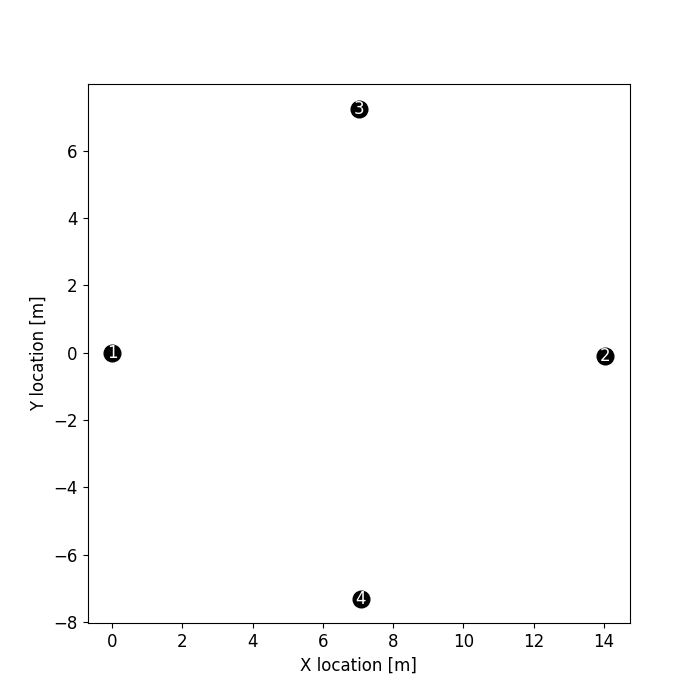
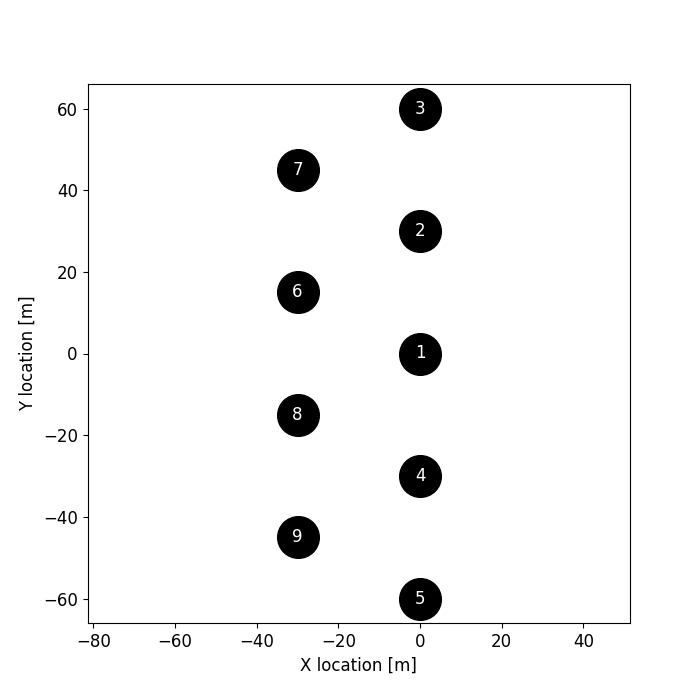
updated soo stuff

diff --git a/src/optimization_interfaces/single_objective_opt.py b/src/optimization_interfaces/single_objective_opt.py
@@ -21,9 +21,8 @@ from pymoo.core.problem import StarmapParallelization
 ####################################################################
 
 class LCOE_sooProblem(ElementwiseProblem):       #   Sinlge Objective Problem
-    def __init__(self,p,limits,**kwargs):            #   P is parameters, limits is the bounds on each var type
-        nwec = int(p[3])
-        n_var=3*(nwec-1) + 3
+    def __init__(self,p,limits,nWEC,**kwargs):            #   P is parameters, limits is the bounds on each var type
+        n_var=3*(nWEC-1) + 3
         xl = np.zeros(n_var)                #   bounds
         xu = np.zeros(n_var)
         xl[0] = limits['r'][0]
@@ -32,7 +31,7 @@ class LCOE_sooProblem(ElementwiseProblem):       #   Sinlge Objective Problem
         xu[1] = limits['L'][1]
         xl[2] = limits['d'][0]
         xu[2] = limits['d'][1]
-        for i in range(nwec-1):
+        for i in range(nWEC-1):
             xl[3+i*3] = limits['x'][0]
             xu[3+i*3] = limits['x'][1]
             xl[4+i*3] = limits['y'][0]
@@ -54,13 +53,12 @@ class LCOE_sooProblem(ElementwiseProblem):       #   Sinlge Objective Problem
         out["F"] = [f1]
         out["G"] = [g1]
 
-def LCOE_GA(p,limits,p_size,gens,n_offspring):  
+def LCOE_GA(p,limits,nWEC,p_size,gens,n_offspring):  
      #   GA method search algorithm
-    problem = P_sooProblem(p,limits)
-    n_proccess = 20
+    n_proccess = 4
     pool = multiprocessing.Pool(n_proccess)
     runner = StarmapParallelization(pool.starmap)
-    problem = LCOE_sooProblem(p,limits,elementwise_runner=runner)
+    problem = LCOE_sooProblem(p,limits,nWEC,elementwise_runner=runner)
     algorithm = NSGA2(
         pop_size=p_size,
         n_offsprings=n_offspring,
@@ -80,13 +78,11 @@ def LCOE_GA(p,limits,p_size,gens,n_offspring):
                algorithm,
                termination,
                seed=1,
-               save_history=True,
                verbose=True)
-
+    
     X = res.X
     F = res.F
-    H = res.history
-    return X,F,H
+    return X,F
 
 class AEP_sooProblem(ElementwiseProblem):       #   Sinlge Objective Problem
     def __init__(self,p,limits):            #   P is parameters, limits is the bounds on each var type

diff --git a/src/main_soo_opt.py b/src/main_soo_opt.py
@@ -2,30 +2,35 @@ import optimization_interfaces.single_objective_opt as opt
 import numpy as np
 import csv 
 import time
+nWEC = 4
+# Limits on Design variables
+limits = {'r':[2,10], 'L':[0.1,0.2], 'x':[-500,500], 'y':[-500,500], 'd':[0,7]}
 
 # Define Parameters
 N = 4
 omega = 1.047
 beta = 0
 A = 1
-p_shape = [1,2,3]
+i = 0.07                # interest rate
+n_avail = 0.95          # availability coefficient (from global avg estimates) **conservative**
+life_time = 25          # lifetime of WEC
+array_scaling_factor = 0.65     # account for fact that OPEX does not scale linearly (very simplified)
+p_shape = [1,2,3] #{1:grid, 2:line,3:random}
+
+# Opt paramaters
+p_size = 250
+gens = 40 #periods
+n_offspring = 50
+
 for _ in p_shape:
-	p = np.array([omega,A,beta,N,0,_]) #{1:grid, 2:line,3:random}
-	# p = [Wave Frequency, Wave Amplitude, wave direction, number of WECs, display time stamps?]
+	p = np.array([omega,A,beta,i,n_avail,life_time,array_scaling_factor,0,_])
 
-	# Limits on Design variables
-	limits = {'r':[2,10], 'L':[0.1,0.5], 'x':[-2500,2500], 'y':[-2500,2500], 'd':[0,7]}
-
-	# Opt paramaters
-	p_size = 500
-	gens = 40 #periods
-	n_offspring = 100
 	start_time = time.time()
-	X,F,H = opt.LCOE_GA(p,limits,p_size,gens,n_offspring)
+	X,F= opt.LCOE_GA(p,limits,nWEC,p_size,gens,n_offspring)
 	end_time = time.time()
 	print(f'Optimization took {end_time-start_time} s')
 
 	# save design
-	with open(f'experiments_interaction_{int(p[5])}/XF_{omega}_{A}_{beta}_{N}__{p_size}_{gens}_{n_offspring}.csv', 'w', newline='') as csvfile:
+	with open(f'../data/experiments/interaction_{_}', 'w', newline='') as csvfile:
 		writer = csv.writer(csvfile, delimiter=',')
 		writer.writerow([X,F])

diff --git a/src/post_pro/plot_design.py b/src/post_pro/plot_design.py
@@ -9,7 +9,11 @@ import modules.model_nWECs as model
 import numpy as np
 import pyplotutilities.colors as colors
 # Design to plot
-x =np.array([2.0001,0.10397832340819038,5.116361100746302,14.037805604014116,-0.09705234903568005,4.968466082392987,7.021016122797809,7.2600758951825295,4.967302814506727,7.07106781,-7.303507084576809,5.301374065918128])
+x =np.array([  5.,          0.8,         5.5563025,   0.,         30.,          5.5563025,
+   0.,         60.,          5.5563025,   0.,        -30.,          5.5563025,
+   0.,        -60.,          5.5563025, -30.,         15.,          5.5563025,
+ -30.,         45.,          5.5563025, -30.,        -15.,          5.5563025,
+ -30.,        -45.,          5.5563025])
 
 # get x and y
 r, L, x, y, d, N = model.unpack_x(x)
@@ -26,6 +30,6 @@ ax.set_xlabel('X location [m]')
 ax.set_ylabel('Y location [m]')
 #ax.set_xlim([-125,175])
 #ax.set_ylim([-75,225])
-#ax.axis('equal')
+ax.axis('equal')
 #plt.show()
 plt.savefig('design.png')

diff --git a/notebooks/nominal_run.py b/notebooks/nominal_run.py
@@ -15,6 +15,7 @@ r = 5
 L = 2*2
 basex = np.array([0,0,0,0,0,-30,-30,-30,-30]) # used to make wecx easier
 wecx = np.concatenate((basex,basex + 500))
+wecx = basex
 wecy = np.array([0,30,60,-30,-60,15,45,-15,-45,0,30,60,-30,-60,15,45,-15,-45])
 damp = 3.6e5*np.ones(wecx.shape)
 
